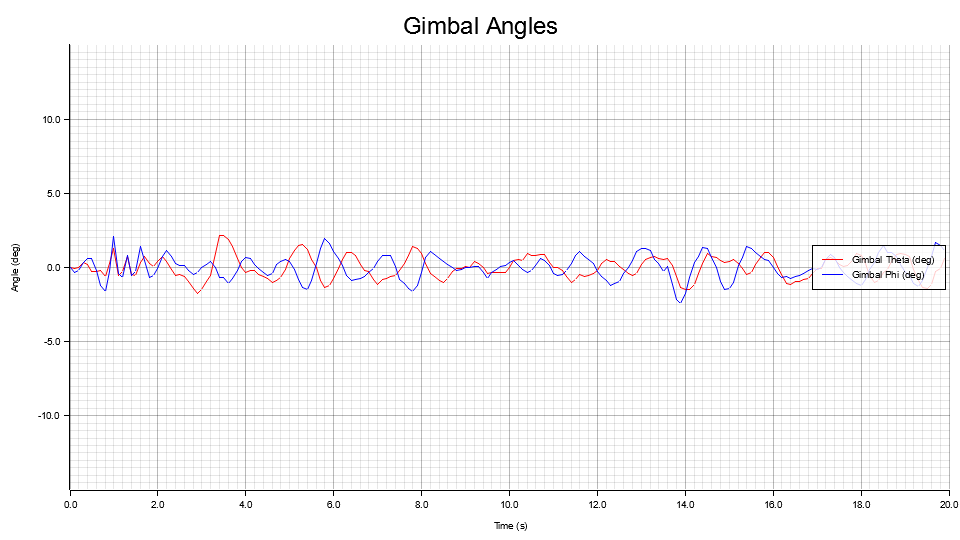
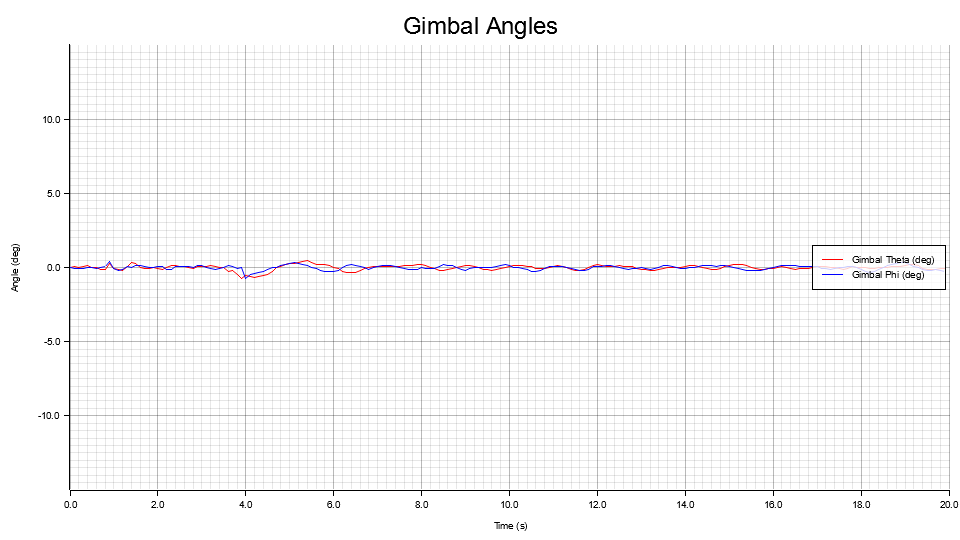
Fix OpEn solver function
Add a new OpEnSolve implementation in mpc_crate.rs that formulates/solves the delta-U QP with PANOC (shifted bounds, smoothing cost, clamping) and returns the applied input and full sequence. Old OpEn function was solving for dU but was not applying this to U. This new implementation fixes this issue

Changed region(s): [[0.0625, 0.4444, 0.9688, 0.563]]

diff --git a/MPC/src/main.rs b/MPC/src/main.rs
@@ -23,7 +23,7 @@ fn main() {
 
     // Initial state: at origin, level, stationary, quaternion [0,0,0,1]
     let mut x = Array1::<f64>::zeros(n);
-    x[2] = 5.0;
+    x[2] = 0.0;
     x[6] = 1.0; // qw = 1 (unit quaternion)
 
     // Hover at set point
@@ -34,9 +34,9 @@ fn main() {
     let mut z_integral = 0.0;
     let mut y_integral = 0.0;
     let mut x_integral = 0.0;
-    let ki_z = 0.2;
-    let ki_y = 0.01;
-    let ki_x = 0.01;
+    let ki_z = 0.0; //0.2, 0.01, 0.01
+    let ki_y = 0.0;
+    let ki_x = 0.0;
 
     // Reference trajectory
     let mut xref_traj = Array2::from_shape_fn((n_steps + 1, n), |(_, j)| xref[j]);
@@ -53,18 +53,18 @@ fn main() {
 
     // Costs: penalize position, orientation, velocities, angular rates
     let q_vec = vec![
-        20.0, 20.0, 200.0,   // position x, y, z
-        0.0, 0.0, 0.0, 0.0, // quaternion qx, qy, qz, qw
-        3.0, 3.0, 1.0,        // linear velocities x_dot, y_dot, z_dot
-        1.0, 1.0, 1.0          // angular velocities wx, wy, wz
+        10.0, 10.0, 80.0,   // position x, y, z
+        220.0, 220.0, 220.0, 220.0, // quaternion qx, qy, qz, qw
+        30.0, 30.0, 10.0,        // linear velocities x_dot, y_dot, z_dot
+        10.0, 10.0, 10.0          // angular velocities wx, wy, wz
     ];
     let q = Array2::<f64>::from_diag(&Array1::from(q_vec.clone()));
-    let r = Array2::<f64>::from_diag(&Array1::from(vec![0000.0, 0000.0, 0.00]));
+    let r = Array2::<f64>::from_diag(&Array1::from(vec![5.0, 5.0, 0.00]));
     // let qn = q.clone();
     let qn = Array2::<f64>::from_diag(&Array1::from(vec![
-        200.0, 200.0, 5000.0,   // position x, y, z
-        10.0, 10.0, 10.0, 10.0, // quaternion qx, qy, qz, qw
-        10.0, 10.0, 10.0,        // linear velocities x_dot, y_dot, z_dot
+        10.0, 10.0, 80.0,   // position x, y, z
+        300.0, 300.0, 300.0, 300.0, // quaternion qx, qy, qz, qw
+        40.0, 40.0, 20.0,        // linear velocities x_dot, y_dot, z_dot
         5.0, 5.0, 5.0          // angular velocities wx, wy, wz
     ]));
 
@@ -97,7 +97,7 @@ fn main() {
             let f_k = k as f64;
             xref[0] = -0.0 * (f_k*dt)/10.0;
             xref[1] = 0.0 * (f_k*dt)/10.0;
-            xref[2] = 25.0 * (f_k*dt)/10.0 + 3.0;
+            xref[2] = 20.0 * (f_k*dt)/10.0 + 3.0;
 
             xref_traj = Array2::from_shape_fn((n_steps + 1, n), |(_, j)| xref[j]);
             xref_traj_vec = xref_traj.axis_iter(ndarray::Axis(0)).map(|row| row.to_owned()).collect();
@@ -109,7 +109,7 @@ fn main() {
             let f_k = k as f64;
             xref[0] = 0.0 * ((f_k*dt)-15.0)/10.0;
             xref[1] = 0.0 * ((f_k*dt)-15.0)/10.0;
-            xref[2] = 25.0 - 25.0 * ((f_k*dt)-15.0)/10.0;
+            xref[2] = 20.0 - 20.0 * ((f_k*dt)-15.0)/10.0;
 
             xref_traj = Array2::from_shape_fn((n_steps + 1, n), |(_, j)| xref[j]);
             xref_traj_vec = xref_traj.axis_iter(ndarray::Axis(0)).map(|row| row.to_owned()).collect();
@@ -118,7 +118,7 @@ fn main() {
         
         xref[0] = 0.0;
         xref[1] = 0.0;
-        xref[2] = 5.0;
+        xref[2] = 25.0;
 
         let z_error = xref[2] - x[2];
         z_integral += z_error * dt;
@@ -149,7 +149,7 @@ fn main() {
         // let (u_warm_vec, x_new, mut u_apply) = mpc_main(&x, &mut u_warm_vec, &xref_traj_vec, &q, &r, &qn, &u_min, &u_max, 2, 0.05);
         
         // OR we solve using OpEn
-        let (mut u_apply, u_warm) = mpc_crate::OpEnSolve(&x, &u_warm.axis_iter(ndarray::Axis(0)).map(|row| row.to_owned()).collect(), &xref_traj_vec, &q, &r, &qn, &smoothing_weight, &mut panoc_cache, thrust_min, thrust_max, gimbal_limit);
+        let (mut u_apply, u_warm) = mpc_crate::OpEnSolve(&x, &u_warm.axis_iter(ndarray::Axis(0)).map(|row| row.to_owned()).collect(), &xref_traj_vec, &q, &r, &qn, &smoothing_weight, &mut panoc_cache, m_rocket ,thrust_min, thrust_max, gimbal_limit);
 
         // exponential filter
         if k >= 1 {
@@ -160,7 +160,7 @@ fn main() {
 
         u_history.push(u_apply.clone());
 
-        m_rocket = m_rocket - 0.001 * u_apply[2] * dt; // decrease mass directly proportional to thrust
+        m_rocket = m_rocket - 0.00 * u_apply[2] * dt; // decrease mass directly proportional to thrust
         println!("Time step: {}, Mass: {}", k as f64 * dt, m_rocket);
 
         // Simulate dynamics for one time step

diff --git a/MPC/src/mpc_crate.rs b/MPC/src/mpc_crate.rs
@@ -459,6 +459,103 @@ pub fn smoothing_cost_grad(U: &Array1<f64>, weight: &Array1<f64>, m: usize) -> A
     grad
 }
 
+// Fixed OpEn solver function
+pub fn OpEnSolve(
+    x0: &Array1<f64>,
+    U: &Vec<Array1<f64>>,
+    xref_traj: &Vec<Array1<f64>>,
+    Q: &Array2<f64>,
+    R: &Array2<f64>,
+    QN: &Array2<f64>,
+    smoothing_weight: &Array1<f64>,
+    panoc_cache: &mut PANOCCache,
+    mass: f64,
+    min_thrust: f64,
+    max_thrust: f64,
+    gimbal_limit_rad: f64,
+) -> (Array1<f64>, Array2<f64>) {
+    use ndarray::ArrayView1;
+
+    let N = U.len();
+    let m = U[0].len();
+    let n_dim_u = N * m;
+
+    // Build nominal flat U for bound shifting
+    let mut u_nom_flat: Vec<f64> = Vec::with_capacity(n_dim_u);
+    for k in 0..N {
+        u_nom_flat.extend_from_slice(U[k].as_slice().unwrap());
+    }
+    let u_nom = Array1::from(u_nom_flat.clone());
+
+    // Linearize about current rollout, assemble QP in delta-U space
+    let xs = rollout(x0, U, mass);
+    let (A_seq, B_seq) = linearize_trajectory(&xs, U, mass);
+    let (H, g, _dU_min, _dU_max, _Su, _Q_bar, _R_bar) =
+        assemble_qp_increment(&xs, U, xref_traj, &A_seq, &B_seq, Q, R, QN,
+                              &Array1::zeros(m), &Array1::zeros(m));
+
+    // Gradient and cost are in delta-U space: min 0.5 dU^T H dU + g^T dU
+    let df = |du_slice: &[f64], grad_slice: &mut [f64]| -> Result<(), SolverError> {
+        let du = Array1::from(du_slice.to_vec());
+        let grad = QP_gradient(&H, &g, &du);
+        let smooth_grad = smoothing_cost_grad(&du, smoothing_weight, m);
+        let total_grad = &grad + &smooth_grad;
+        grad_slice.copy_from_slice(total_grad.as_slice().unwrap());
+        Ok(())
+    };
+
+    let f = |du_slice: &[f64], cost: &mut f64| -> Result<(), SolverError> {
+        let du = Array1::from(du_slice.to_vec());
+        let smooth_cost = smoothing_cost(&du, smoothing_weight, m);
+        *cost = QP_cost(&H, &g, &du) + smooth_cost;
+        Ok(())
+    };
+
+    // Box bounds shifted into delta-U space: dU_min = u_min - u_nom, dU_max = u_max - u_nom
+    let mut du_min_flat: Vec<f64> = Vec::with_capacity(n_dim_u);
+    let mut du_max_flat: Vec<f64> = Vec::with_capacity(n_dim_u);
+    for k in 0..N {
+        let u_nom_k = &U[k];
+        du_min_flat.push(-gimbal_limit_rad - u_nom_k[0]);
+        du_max_flat.push( gimbal_limit_rad - u_nom_k[0]);
+        du_min_flat.push(-gimbal_limit_rad - u_nom_k[1]);
+        du_max_flat.push( gimbal_limit_rad - u_nom_k[1]);
+        du_min_flat.push(min_thrust - u_nom_k[2]);
+        du_max_flat.push(max_thrust - u_nom_k[2]);
+    }
+    let bounds = constraints::Rectangle::new(
+        Some(&du_min_flat[..]),
+        Some(&du_max_flat[..]),
+    );
+
+    let problem = Problem::new(&bounds, df, f);
+    let mut panoc = PANOCOptimizer::new(problem, panoc_cache).with_max_iter(150);
+
+    // Initialize at zero — meaning "start from the warm-start U, apply no delta"
+    let mut du_flat: Vec<f64> = vec![0.0; n_dim_u];
+    let _status = panoc.solve(&mut du_flat).unwrap();
+
+    // Recover absolute U: U_new = U_warm + dU, clamped to hard bounds
+    let du_seq = Array1::from(du_flat);
+    let u_seq = &u_nom + &du_seq;
+
+    // Clamp final result to absolute bounds (safety)
+    let u_seq_clamped: Vec<f64> = (0..N).flat_map(|k| {
+        let base = k * m;
+        vec![
+            u_seq[base + 0].clamp(-gimbal_limit_rad, gimbal_limit_rad),
+            u_seq[base + 1].clamp(-gimbal_limit_rad, gimbal_limit_rad),
+            u_seq[base + 2].clamp(min_thrust, max_thrust),
+        ]
+    }).collect();
+
+    let u_seq_arr = Array1::from(u_seq_clamped);
+    let u_apply = u_seq_arr.slice(s![0..m]).to_owned();
+    let U_seq = Array2::from_shape_vec((N, m), u_seq_arr.to_vec()).unwrap();
+
+    (u_apply, U_seq)
+}
+/*
 pub fn OpEnSolve(
     x0: &Array1<f64>,
     U: &Vec<Array1<f64>>,
@@ -544,6 +641,7 @@ pub fn OpEnSolve(
 
     (u_apply, U_seq)
 }
+*/
 
 // Main MPC function to be called externally
 pub fn mpc_main(x: &Array1<f64>, U_warm: &mut Vec<Array1<f64>>, xref_traj: &Vec<Array1<f64>>, Q: &Array2<f64>, R: &Array2<f64>, QN: &Array2<f64>, u_min: &Array1<f64>, u_max: &Array1<f64>, sqp_iters: usize, alpha_pgd: f64, mass: f64) -> (Vec<Array1<f64>>, Array1<f64>, Array1<f64>) {

diff --git a/MPC/src/externaldynamics.rs b/MPC/src/externaldynamics.rs
@@ -12,9 +12,9 @@ pub fn real_dynamics(x: &Array1<f64>, u: &Array1<f64>, mass: Option<f64>) -> Arr
     // Constants
     let m = mass.unwrap_or(80.0);
     let g = 9.81;
-    let ixx = 20.0;
-    let iyy = 20.0;
-    let izz = 10.0;
+    let ixx = 50.0;
+    let iyy = 50.0;
+    let izz = 3.0;
     let dt = 0.1;
 
     // Inertia matrix and inverse
@@ -121,12 +121,21 @@ pub fn real_dynamics(x: &Array1<f64>, u: &Array1<f64>, mass: Option<f64>) -> Arr
         wx_new, wy_new, wz_new,
     ]);
 
-    // Add noise
+    // Add gaussian noise to simulate real dynamics, scaled per state dimension
     let mut rng = rand::thread_rng();
-    let noise_std = 0.01;
-    let noise = Array1::from_shape_fn(x_next.len(), |_| rng.gen_range(-noise_std..noise_std));
-    // println!("Noise: {:?}", noise);
+    // Define standard deviations for each state variable
+    let noise_stds = [
+        0.02, 0.02, 0.02,    // position (x, y, z)
+        0.001, 0.001, 0.001, 0.001, // quaternion (qx, qy, qz, qw)
+        0.05, 0.05, 0.05,    // velocity (x_dot, y_dot, z_dot)
+        0.001, 0.001, 0.001, // angular velocity (wx, wy, wz)
+    ];
+    let noise = Array1::from_shape_fn(x_next.len(), |i| {
+        let std = noise_stds.get(i).copied().unwrap_or(0.0);
+        rng.sample::<f64, _>(rand_distr::Normal::new(0.0, std).unwrap())
+    });
     let x_next_noisy = &x_next + &noise;
 
     x_next_noisy
+    // x_next
 }
